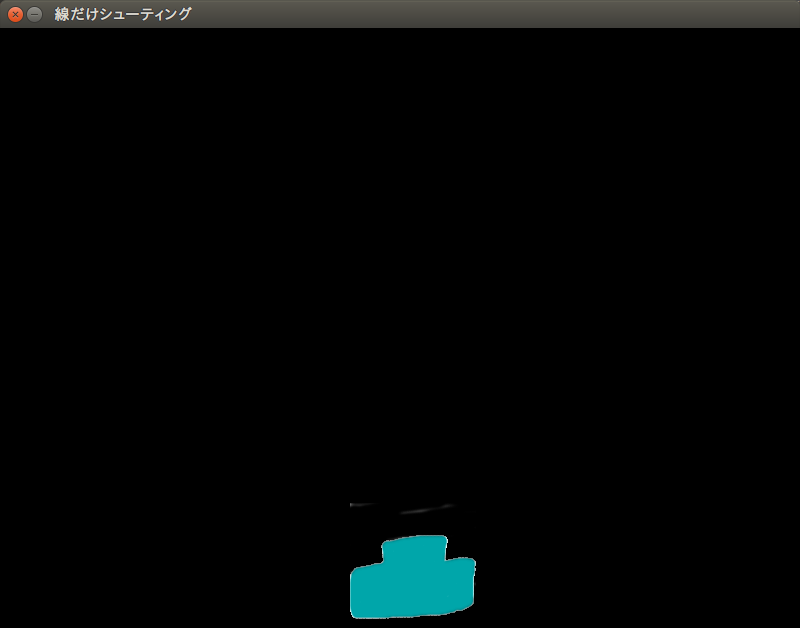
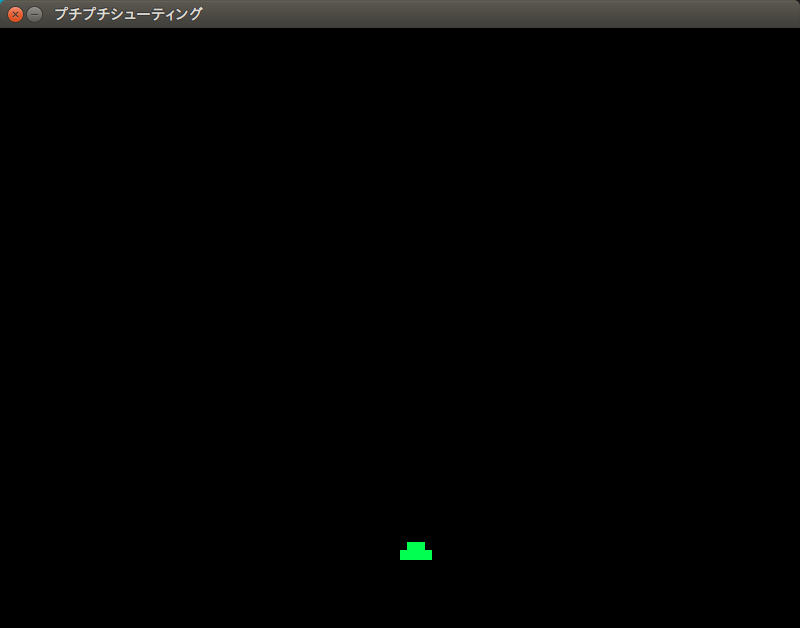
[WIP]プレイヤーを動かすスクリプト記入
継承の概念まで使ったが、Scratchでクローンが分かれば問題ない？

Changed region(s): [[0.4375, 0.8471, 0.5938, 0.9984], [0.0625, 0.0, 0.25, 0.0303]]

diff --git a/source/python/game_menter.rst b/source/python/game_menter.rst
@@ -1,5 +1,5 @@
 ========================================================
-Pythonでゲームを作りますが、何が of Python3 for Menter
+Pythonでゲームを作りますが、何か of Python3
 ========================================================
 
 目的
@@ -118,7 +118,7 @@ PyCharm Community Edition(任意)
  # SCREEN_SIZEの画面作成
  screen = pygame.display.set_mode(SCREEN_SIZE)
  # タイトルバーの文字列セット
- pygame.display.set_caption("線だけシューティング")
+ pygame.display.set_caption("プチプチシューティング")
 
  # ゲームイベントループ
  while True:
@@ -126,8 +126,8 @@ PyCharm Community Edition(任意)
   pygame.display.update() # 画面を更新
   # イベント処理
   for event in pygame.event.get():
-  if event.type == QUIT: # 終了イベント
-   sys.exit()
+      if event.type == QUIT: # 終了イベント
+         sys.exit()
 
 このコードを書いたら、名前を ``game.py`` として保存し、コマンドでファイルの保存したディレクトリまで移動して、
 ``python game.py`` と実行してみましょう。
@@ -141,12 +141,27 @@ PyCharm Community Edition(任意)
 .. hint::
    + *fill* というのは「塗る」という意味です。
    + コンピューターでは基本的に、赤・緑・青の光の三原色で色を記録します。
+   + 勇気のあるNinjaは、上のソースコードの以下の部分を消して実行してみよう！　しかし危険が伴うぞ！::
+       for event in pygame.event.get():
+           if event.type == QUIT: #終了イベント
+               sys.exit()
+
+.. warning::
+   「ヒント」の一番最後は、プログラムを終了させなくする技なので、Mentorの皆様、および先輩Ninjaは
+   強制終了の方法を伝えておくこと。
+
+.. note::
+   importってなんですか？
+     ライブラリやモジュールというものを読み込んでいます。ライブラリというのは、簡単に言えば説明書です。
+     説明書を渡して、いまあなたが触っているPythonという言語が、画面を表示したりする方法を会得しています。
+     また、モジュールというのは、別のプログラムのことを言います。プログラムはバラバラに分解して作ることが
+     できるんですよ。
 
 
-スプライトを作る - まずはプレイヤー・キャラクター（以下:PC）から
-------------------------------------------------------------------------------
+スプライトを作る
+-------------------------
 
-それでは画面を真っ黒にできたら、PCのスプライトを作りましょう。
+それでは画面を真っ黒にできたら、画面に表示するキャラクターのスプライトを作りましょう。
 
 .. note::
  スプライトという単語で反応したNinjaは、なかなかのScrach使いとみた。
@@ -170,6 +185,8 @@ PyCharm Community Edition(任意)
 .. image:: img/game/pc_img.png
    :alt: プレイヤー・キャラクター
 
+それでは、 ``game.py`` を以下のように書き換えましょう。
+
 .. code-block:: python
 
  import pygame, math
@@ -178,8 +195,8 @@ PyCharm Community Edition(任意)
 
  SCR_RECT = Rect(0, 0, 800, 600) # スクリーンサイズ(px指定)
 
- # PCのスプライト（クラス）を作る
- class PCSprite(pygame.sprite.Sprite):
+ # キャラクターのスプライト（クラス）を作る
+ class CharacterSprite(pygame.sprite.Sprite):
      def __init__(self, filename, x, y, vx, vy):
          pygame.sprite.Sprite.__init__(self)
          self.image = pygame.image.load(filename).convert_alpha()
@@ -198,7 +215,97 @@ PyCharm Community Edition(任意)
  if __name__ == '__main__':
      pygame.init()
      screen = pygame.display.set_mode(SCR_RECT.size)
-     pygame.display.set_caption("線だけシューティング")
+     pygame.display.set_caption("プチプチシューティング")
+
+     # スプライト作成
+     MyPC = CharacterSprite("pc_img.png", 400, 500, 100, 100)
+
+     # 画面の更新時間を管理するオブジェクト
+     fps = pygame.time.Clock()
+
+     # ゲームイベントループ
+     while True:
+         screen.fill((0, 0, 0))
+         fps.tick(60)
+
+         # スプライト更新
+         MyPC.update()
+
+         # スプライトを描画
+         MyPC.draw(screen)
+
+         pygame.display.update() # 画面を更新
+
+         # イベント処理
+         for event in pygame.event.get():
+             if event.type == QUIT: # 終了イベント
+                 sys.exit()
+
+難しいことは抜きにすると、class（クラス）というのはScratchでいうところの *スプライト* 、
+プログラミンでいうところの *絵* です。
+そしてdefという単語で始まっているのは **メソッド** と呼ばれるもので、これはScratchの
+*ブロックを作る* に近いです。
+
+さて、実行するとこんな画面が出てくると思います。
+
+.. image:: img/game/002.png
+    :alt: 画面はそれっぽいぞ。
+
+| 「しかし面倒な書き方してるなあ」
+| そう思ったNinjaは、後々この書き方をしていてよかったと思えるようになるはず。
+
+
+「俺はこれから本気出す」 - プレイヤー・キャラクター、動く。
+--------------------------------------------------------------------------
+
+さて、せっかく出した画像なので、動かしたいですよね。できれば自分の思ったとおりに。
+
+もちろんゲームなので、キーボードに反応して動いてくれないとつまらないですね。
+ということでここからはそれを作っていきます。
+
+同じく ``game.py`` を以下のように書き換えましょう。
+
+.. code-block:: python
+
+ import pygame, math
+ from pygame.locals import *
+ import sys
+
+ SCR_RECT = Rect(0, 0, 800, 600) # スクリーンサイズ(px指定)
+
+ # キャラクターのスプライト（クラス）を作る
+ class CharacterSprite(pygame.sprite.Sprite):
+     def __init__(self, filename, x, y, vx, vy):
+         pygame.sprite.Sprite.__init__(self)
+         self.image = pygame.image.load(filename).convert_alpha()
+         width = self.image.get_width()
+         height = self.image.get_height()
+         self.rect = Rect(x, y, width, height)
+         self.vx = vx
+         self.vy = vy
+
+     def update(self):
+         # 画面からはみ出ないようにする
+         self.rect = self.rect.clamp(SCR_RECT)
+     def draw(self, screen):
+         screen.blit(self.image, self.rect)
+
+ # プレイヤーのスプライト（クラス）を作る
+ class PCSprite(CharacterSprite):
+     def move(self, press):
+         if press[K_LEFT]:
+             self.rect.move_ip(-self.vx, 0)
+         if press[K_RIGHT]:
+             self.rect.move_ip(self.vx, 0)
+         if press[K_UP]:
+             self.rect.move_ip(0, -self.vy)
+         if press[K_DOWN]:
+             self.rect.move_ip(0, self.vy)
+
+ if __name__ == '__main__':
+     pygame.init()
+     screen = pygame.display.set_mode(SCR_RECT.size)
+     pygame.display.set_caption("プチプチシューティング")
 
      # スプライト作成
      MyPC = PCSprite("pc_img.png", 400, 500, 100, 100)
@@ -223,3 +330,8 @@ PyCharm Community Edition(任意)
          for event in pygame.event.get():
              if event.type == QUIT: # 終了イベント
                  sys.exit()
+             if event.type == KEYDOWN:
+                 if event.key == K_ESCAPE:
+                     sys.exit()
+                 pressed_keys = pygame.key.get_pressed()
+                 MyPC.move(pressed_keys)
